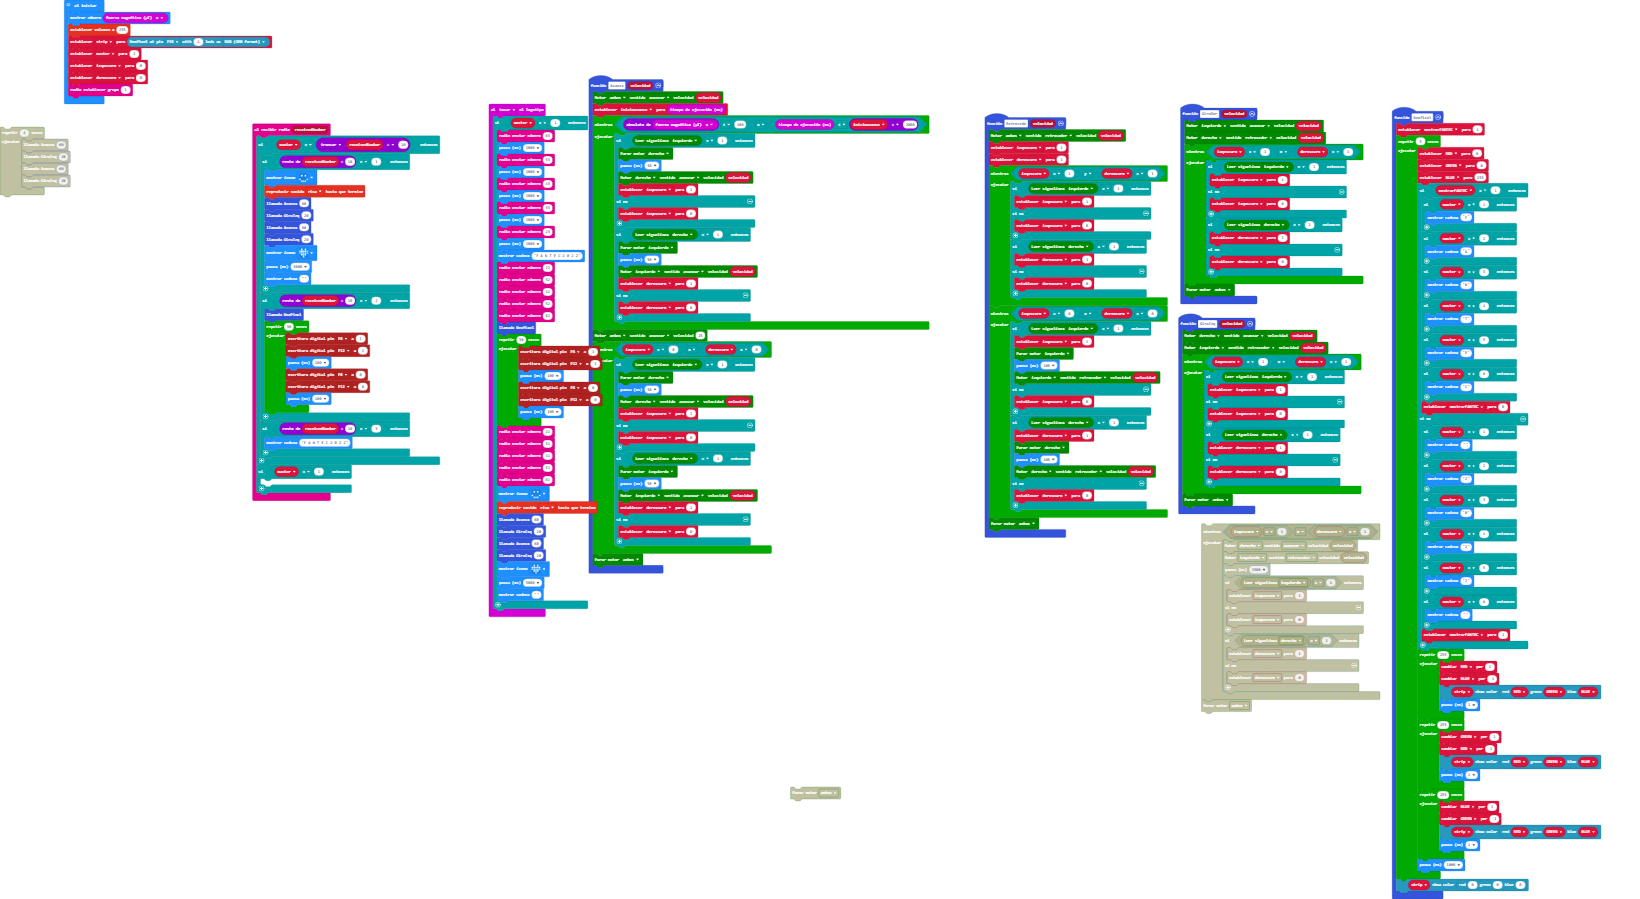
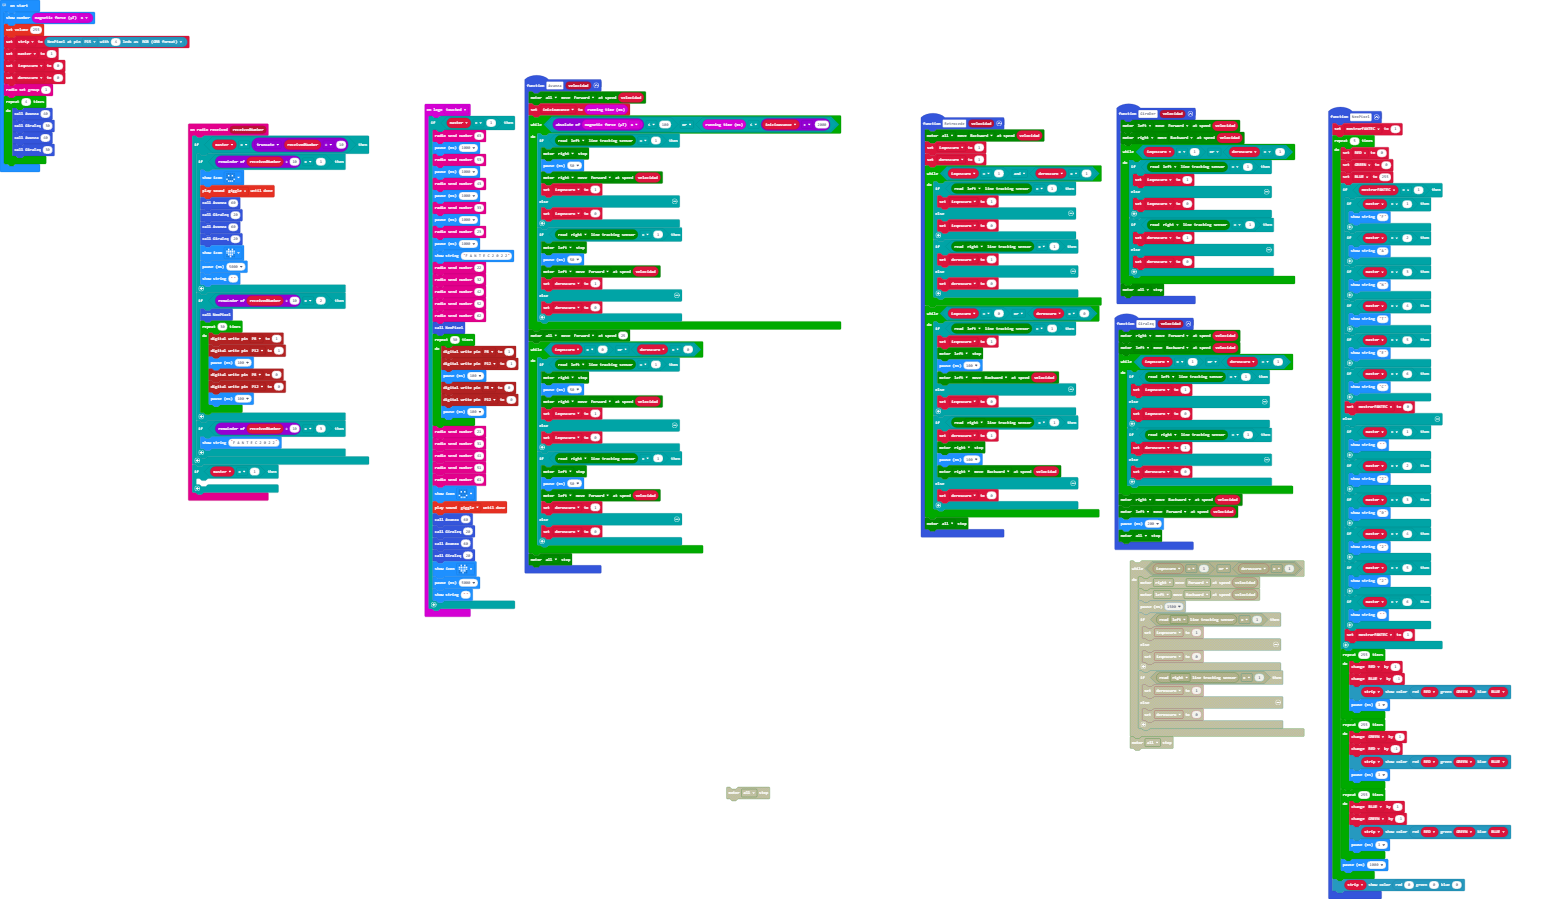
Update main.blocks, main.ts

diff --git a/main.ts b/main.ts
@@ -87,6 +87,9 @@ function GiraIzq (velocidad: number) {
             deroscuro = 0
         }
     }
+    maqueen.motorRun(maqueen.Motors.M2, maqueen.Dir.CCW, velocidad)
+    maqueen.motorRun(maqueen.Motors.M1, maqueen.Dir.CW, velocidad)
+    basic.pause(200)
     maqueen.motorStop(maqueen.Motors.All)
 }
 function GiroDer (velocidad: number) {
@@ -275,3 +278,9 @@ master = 1
 izqoscuro = 0
 deroscuro = 0
 radio.setGroup(1)
+for (let index = 0; index < 4; index++) {
+    Avanza(40)
+    GiraIzq(30)
+    Avanza(40)
+    GiraIzq(30)
+}
